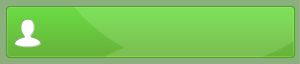
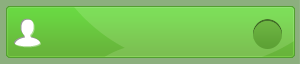
updated graphics and css

Changed region(s): [[0.84, 0.2812, 0.96, 0.7812]]

diff --git a/css/odsherredweb-alpha-default.css b/css/odsherredweb-alpha-default.css
@@ -293,18 +293,23 @@ ul#main-menu li.menu-784 a {
 
 #page_1 ul#main-menu li a.menu-minipanel, 
 #page_1  ul#main-menu li a.menu-minipanel:hover {
-background-image: url('img/plus.png');
-background-repeat: no-repeat;
-background-size: initial;
-width:20px;
-height:20px;
-display: block;
-position: absolute;
-top: 24px;
-right: 20px;
-background-position: 50% 50%;
-padding: 0;
-margin: 0;
+  background-image: url('img/plus.png');
+  background-repeat: no-repeat;
+  background-size: initial;
+  width:20px;
+  height:20px;
+  display: block;
+  position: absolute;
+  top: 24px;
+  right: 23px;
+  background-position: 50% 50%;
+  padding: 0;
+  margin: 0;
+}
+
+#page_1 ul#main-menu li.first a.menu-minipanel, 
+#page_1  ul#main-menu li.first a.menu-minipanel:hover {
+  right: 22px;
 }
 
 #page_1 ul#main-menu li a.menu-minipanel.qtip-hover, 
@@ -353,11 +358,7 @@ ul.breadcrumb {
 	
 #breadcrumb {
 	padding: 10px
-	}
-
-
-
-	
+}
 .front .region-header-first-inner { 
 	padding-left: 80px 
 	}
@@ -425,7 +426,7 @@ ul.breadcrumb {
 	display: none
 	}
 
-.qtip-cmstheme { background-color: transparent}
+.qtip-cmstheme { background-color: transparent; margin-top: 3px;}
 
 .front #zone-header-wrapper, #block-superfish-2 { display: none}
 
@@ -1149,13 +1150,6 @@ top: 0;
   top: 0;
   z-index: 100;
 }
-
-#main-menu .hover {
-  z-index: 6200;
-  position: relative;
-}
-
-
 
 .gaatilforside a { font-weight: normal !important; font-size: 14px;}
 

diff --git a/css/odsherredweb-alpha-default-normal.css b/css/odsherredweb-alpha-default-normal.css
@@ -41,27 +41,12 @@ ul#main-menu li.menu-782 a {
 	background-image: url(img/portalknap-borger.png);
 }
 
-ul#main-menu li.menu-782 a:hover,
-ul#main-menu li.menu-782 a.hover {
-	background-image: url(img/portalknap-borger-hover.png);
-}
-
 ul#main-menu li.menu-783 a {
 	background-image: url(img/portalknap-erhverv.png);
 }
 
-ul#main-menu li.menu-783 a:hover,
-ul#main-menu li.menu-783 a.hover {
-	background-image: url(img/portalknap-erhverv-hover.png);
-}
-
 ul#main-menu li.menu-784 a {
 	background-image: url(img/portalknap-politik.png);
-}
-
-ul#main-menu li.menu-784 a:hover,
-ul#main-menu li.menu-784 a.hover {
-	background-image: url(img/portalknap-politik-hover.png);
 }
 
 .menu-minipanels .panel-region-kol1 { width: 200px !important}

diff --git a/js/jquery.portalMenuPageDimmer.js b/js/jquery.portalMenuPageDimmer.js
@@ -9,6 +9,7 @@ $j(document).ready(function($){
     }
   }
   $('.js-menu-minipanel-toggle').click(function(){
+    $(this).parent().find('.portal-link').addClass('hover');
     return false
   });
 });

diff --git a/template.php b/template.php
@@ -120,14 +120,11 @@ function odsherredweb_preprocess_node(&$variables) {
  */
 function odsherredweb_links__system_main_menu($variables) {
   $html = '<ul id="main-menu" class="links inline clearfix main-menu">';
-  
-  //<li class="menu-782 active-trail first active"><a href="/borger" title="" class="active-trail active menu-minipanel menu-minipanel-782 minipanel-processed qtip-hover hover" tabindex="17">Borger</a></li><li class="menu-783"><a href="/erhverv" title="" class="menu-minipanel menu-minipanel-783 minipanel-processed" tabindex="18">Erhverv</a></li><li class="menu-784 last"><a href="/politik" title="" class="menu-minipanel menu-minipanel-784 minipanel-processed" tabindex="19">Politik</a></li></ul>
 
   $items = array('first', '', 'last');
 
   foreach( array_shift($variables) as $key => $link) {
-    error_log(print_r($key, 1));
-    $html .= '<li class="' . $key . ' ' . array_shift($items) .  '"><a href="' . $link['href'] . '" title="' . $link['title']. '">' . $link['title']. '</a><a href="" class="js-menu-minipanel-toggle '._menu_minipanels_include($link['minipanel'], $link['menu_minipanels_hover']) .'"></a> </li>';
+    $html .= '<li class="' . $key . ' ' . array_shift($items) .  '"><a href="' . $link['href'] . '" title="' . $link['title']. '" class="portal-link">' . $link['title']. '</a><a href="" class="js-menu-minipanel-toggle '._menu_minipanels_include($link['minipanel'], $link['menu_minipanels_hover']) .'"></a> </li>';
   }
   return $html;
 }
